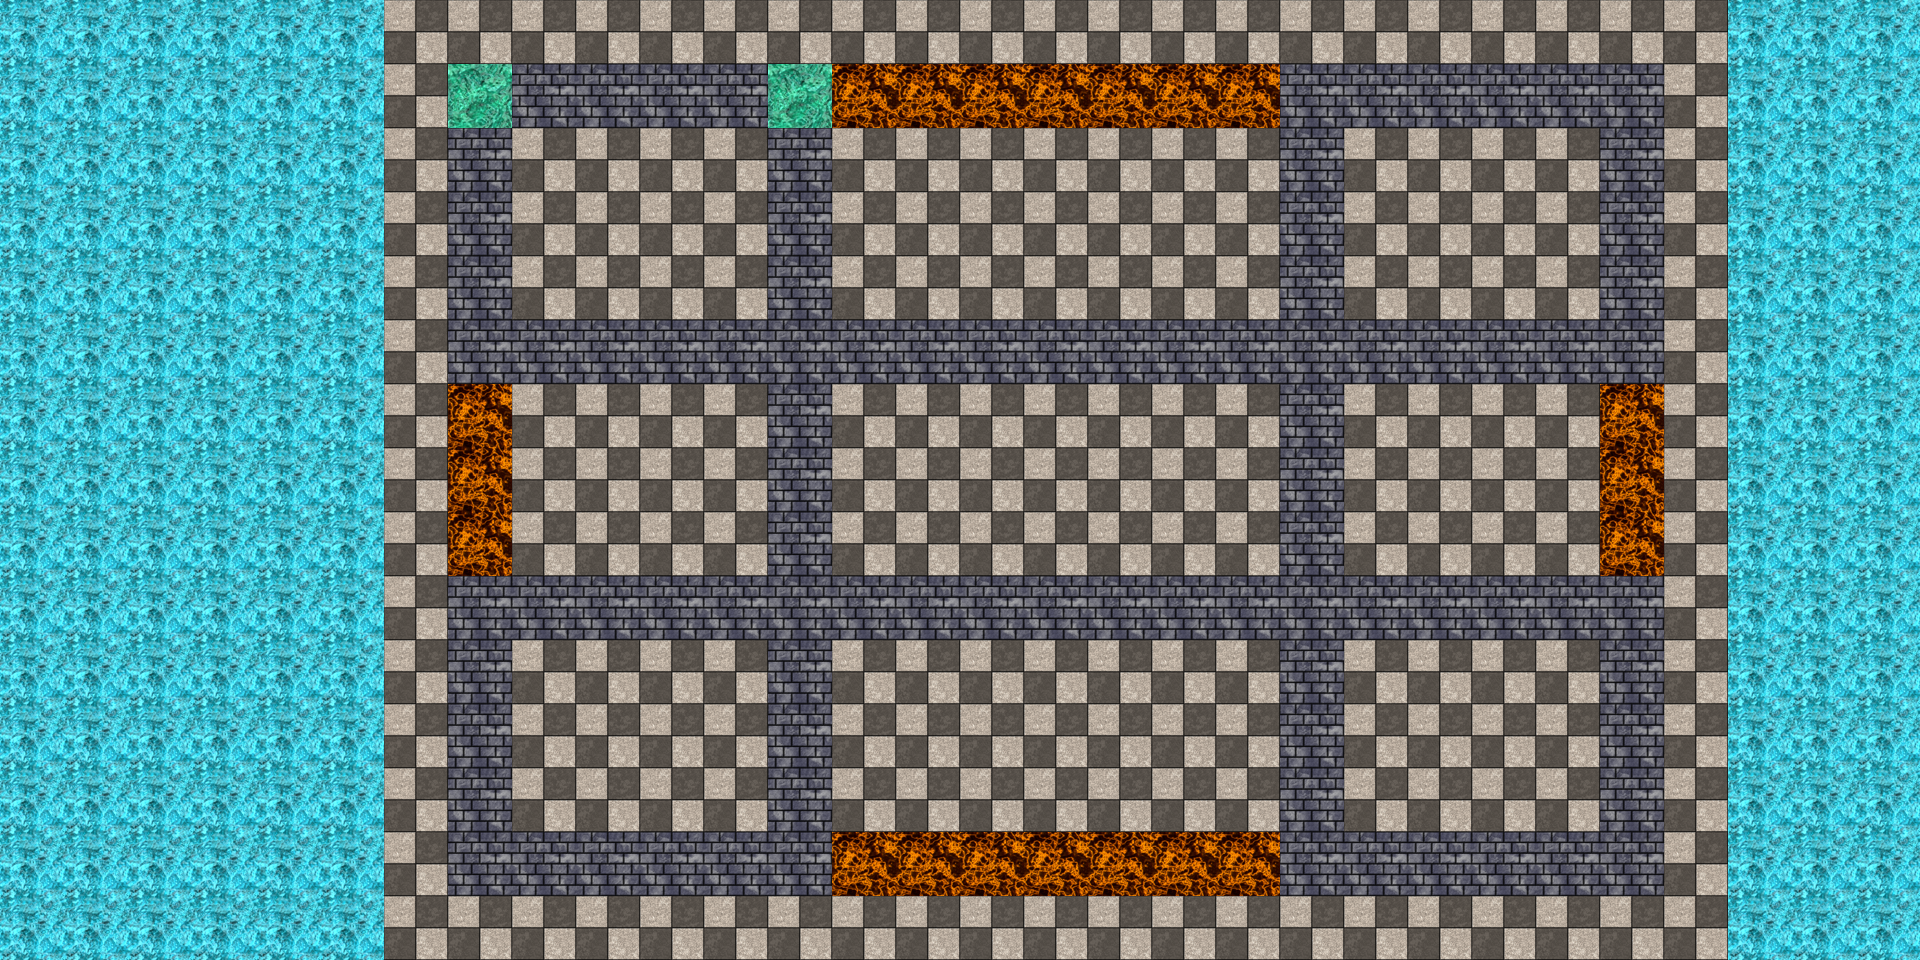
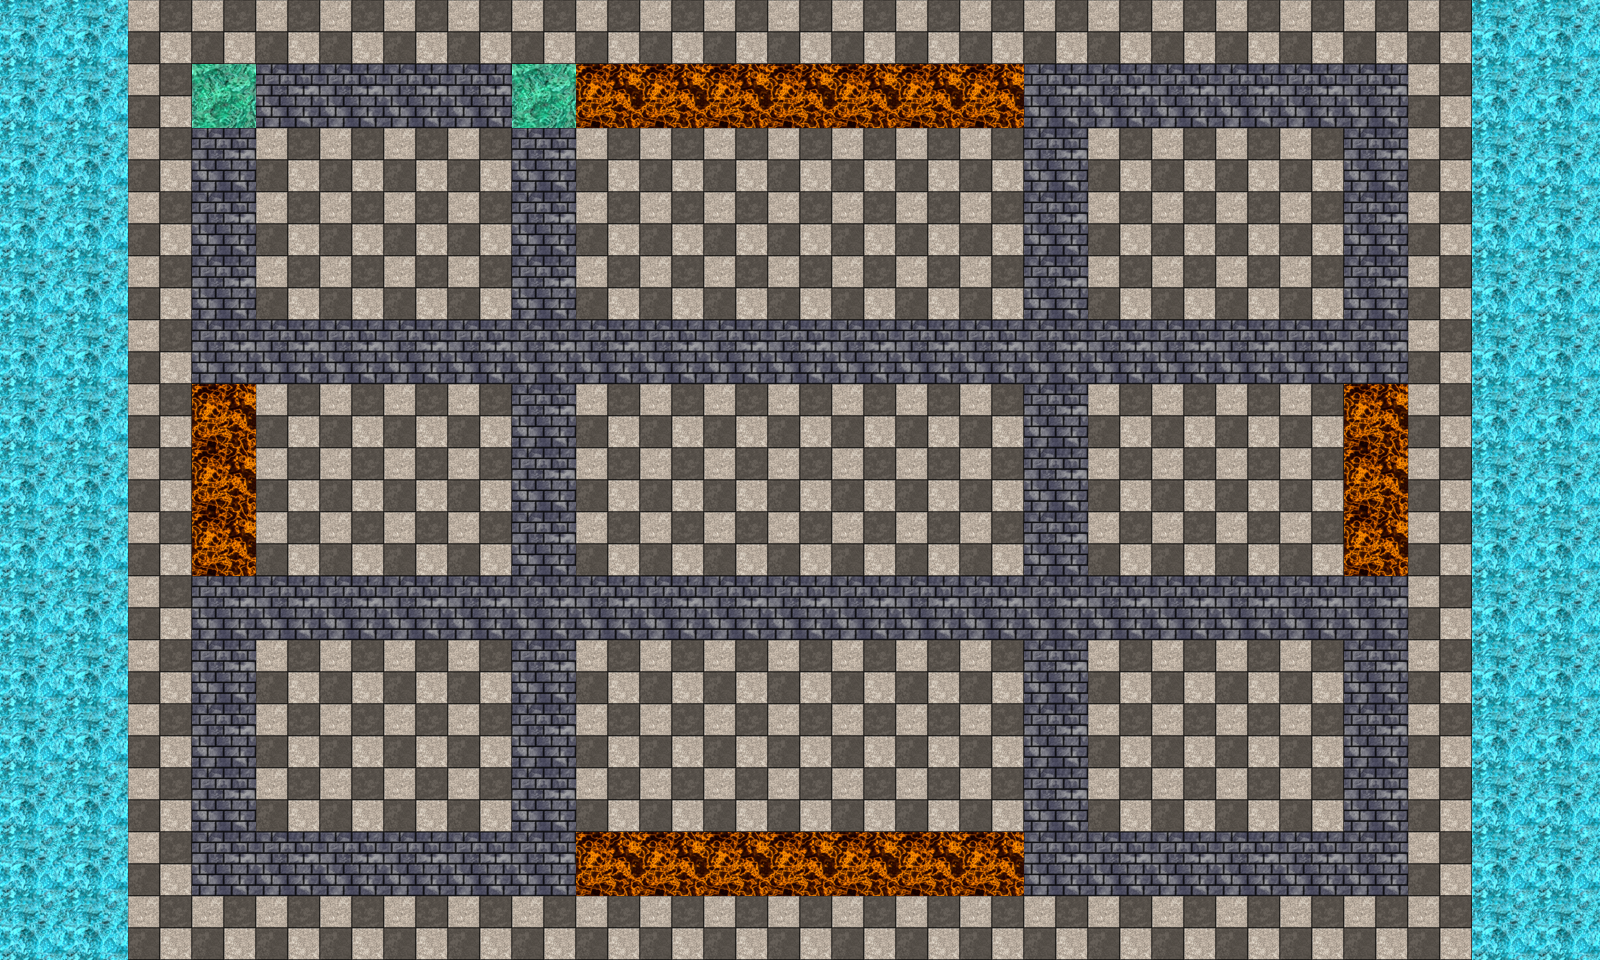
Create monster

diff --git a/TowerDefence/Monster/MonsterFilter.cs b/TowerDefence/Monster/MonsterFilter.cs
@@ -8,6 +8,64 @@ namespace TowerDefence
 {
     public class MonsterFilter
     {
+        List<Monster> liste;
+        List<Monster> filtred;
 
+
+        public MonsterFilter()
+        { 
+            this.liste = new List<Monster>();
+            this.filtred = liste;
+        }
+
+
+        public MonsterFilter Add(EMonster type)
+        {
+            switch (type)
+            {
+                case EMonster.FIRE:
+                    this.liste.Add(new Monster1());
+                    break;
+                case EMonster.ICE:
+                    this.liste.Add(new Monster2());
+                    break;
+                case EMonster.POISON:
+                    this.liste.Add(new Monster3());
+                    break;
+                default:
+                    throw new Exception("ERROR TYPE INCONNU");
+            }
+
+
+
+
+            return this;
+        }
+
+
+        public MonsterFilter all()
+        {
+            filtred = liste;
+            return this;
+        }
+
+
+        public MonsterFilter MoveMonsters()
+        {
+            filtred.ForEach(monstre => monstre.MoveMonster());
+            return this;
+        }
+
+        public MonsterFilter Draw()
+        {
+            filtred.ForEach(monstre => monstre.DrawMonster());
+            return this;
+        }
+
+
+        public List<Monster> Build()
+        {
+            return liste;
+        }
     }
 }

diff --git a/TowerDefence/MainGameTD.cs b/TowerDefence/MainGameTD.cs
@@ -3,6 +3,10 @@ using Microsoft.Xna.Framework.Content;
 using Microsoft.Xna.Framework.Graphics;
 using System;
 using System.Collections.Generic;
+using System.Diagnostics;
+using System.IO;
+using System.Text.Json;
+using System.Text.Json.Serialization;
 
 namespace TowerDefence
 {
@@ -13,11 +17,18 @@ namespace TowerDefence
         private MonsterFilter monsterFilter;
         private TowerFilter towerFilter;
 
+
+
         public MainGameTD()
         {
             this.map = new Map();
             this.gui = new GUI();
+            this.monsterFilter = new MonsterFilter()
+                .Add(EMonster.FIRE)
+                .Add(EMonster.ICE);
         }
+
+
 
         public void Initialize()
         {
@@ -31,12 +42,19 @@ namespace TowerDefence
 
         public void Update(GameTime gameTime)
         {
+            monsterFilter
+                .all()
+                    .MoveMonsters();
         }
 
         public void Draw()
         {
             map.Draw();
             gui.Draw();
+
+            monsterFilter
+                .all()
+                    .Draw();
         }
     }
 }

diff --git a/TowerDefence/Monster/Monster/Monster.cs b/TowerDefence/Monster/Monster/Monster.cs
@@ -1,0 +1,45 @@
+using Microsoft.Xna.Framework;
+using System;
+using System.Collections.Generic;
+using System.Diagnostics;
+using System.Linq;
+using System.Text;
+using System.Threading.Tasks;
+
+namespace TowerDefence
+{
+    public abstract class Monster : IMonster
+    {
+        public EMonster type;
+
+        public Vector2 pos = new Vector2(
+            MonsterDB.initial_pos.X, 
+            MonsterDB.initial_pos.Y
+        );
+
+        public Monster() 
+        {
+            
+        }
+
+        public void DrawMonster()
+        {
+            MainGame.spriteBatch.Draw(
+                MonsterDB.monster_texture[(int)type],
+                this.pos,
+                Color.White
+           );
+        }
+
+        public void MoveMonster()
+        {
+            pos += MonsterDB.vitesse[(int)type];
+        }
+
+        public void TimerMonster()
+        {
+
+        }
+        
+    }
+}

diff --git a/TowerDefence/DataBase/MonsterDB.cs b/TowerDefence/DataBase/MonsterDB.cs
@@ -1,4 +1,6 @@
-using System;
+using Microsoft.Xna.Framework;
+using Microsoft.Xna.Framework.Graphics;
+using System;
 using System.Collections.Generic;
 using System.Linq;
 using System.Text;
@@ -6,7 +8,25 @@ using System.Threading.Tasks;
 
 namespace TowerDefence
 {
+
     public static class MonsterDB
     {
+
+
+        public static Vector2 initial_pos = new Vector2(500,0);
+
+        public static List<Texture2D> monster_texture = new List<Texture2D>()
+        {
+            MainGame.content.Load<Texture2D>("Monster/Monster1"),
+            MainGame.content.Load<Texture2D>("Monster/Monster2"),
+            MainGame.content.Load<Texture2D>("Monster/Monster3"),
+        };
+
+        public static List<Vector2> vitesse = new List<Vector2>()
+        {
+            new Vector2(0,1),
+            new Vector2(0,2),
+            new Vector2(0,3)
+        };
     }
 }

diff --git a/TowerDefence/GUI/Infos/Infos.cs b/TowerDefence/GUI/Infos/Infos.cs
@@ -1,11 +1,14 @@
 using Microsoft.Xna.Framework;
 using Microsoft.Xna.Framework.Graphics;
+using SharpDX.MediaFoundation;
 
 namespace TowerDefence
 {
     public class Infos
     {
+        public static Vector2 offsetBuilder = new Vector2(0, 50);
         private Texture2D infosTexture;
+        private Texture2D builderTexture;
         public Infos() 
         {
         
@@ -14,11 +17,15 @@ namespace TowerDefence
         public void LoadContent()
         {
             infosTexture = MainGame.content.Load<Texture2D>("GUI/Infos/Infos");
+            builderTexture = MainGame.content.Load<Texture2D>("GUI/Infos/Builder");
+
         }
 
         public void Draw()
         {
             MainGame.spriteBatch.Draw(infosTexture, new Vector2(0, 0), Color.White);
+            MainGame.spriteBatch.Draw(builderTexture, offsetBuilder, Color.White);
+
         }
     }
 }

diff --git a/TowerDefence/MainGame.cs b/TowerDefence/MainGame.cs
@@ -2,6 +2,9 @@
 using Microsoft.Xna.Framework.Content;
 using Microsoft.Xna.Framework.Graphics;
 using Microsoft.Xna.Framework.Input;
+using System;
+using System.Collections.Generic;
+using System.Diagnostics;
 
 namespace TowerDefence
 {
@@ -14,7 +17,7 @@ namespace TowerDefence
         public MainGameTD mainGameTD;
 
 
-
+        List<Monster> monsters;
         public MainGame()
         {
             graphics = new GraphicsDeviceManager(this);
@@ -48,7 +51,7 @@ namespace TowerDefence
                 Exit();
 
             // TODO: Add your update logic here
-
+            mainGameTD.Update(gameTime);
             base.Update(gameTime);
         }
 

diff --git a/TowerDefence/Monster/IMonster.cs b/TowerDefence/Monster/IMonster.cs
@@ -8,5 +8,25 @@ namespace TowerDefence
 {
     public interface IMonster
     {
+        // img
+        // position
+        // vitesse
+        // logique de deplacement
+
+        // add
+        // timer
+        // delete
+
+
+        // PV
+        // Mana 
+        // air
+        // sol
+        // invisible 
+
+        public void DrawMonster();
+        public void MoveMonster();
+        public void TimerMonster();
+
     }
 }

diff --git a/TowerDefence/Map/Map.cs b/TowerDefence/Map/Map.cs
@@ -7,6 +7,7 @@ namespace TowerDefence
 {
     public class Map
     {
+        public static Vector2 offsetMap = new Vector2(320, 50);
         public static int[,] grid;
 
 
@@ -26,7 +27,7 @@ namespace TowerDefence
 
         public void Draw()
         {
-            MainGame.spriteBatch.Draw(mapTexture, new Vector2(0,50), Color.White);
+            MainGame.spriteBatch.Draw(mapTexture, offsetMap, Color.White);
         }
     }
 }

diff --git a/TowerDefence/Monster/Monster/Monster1.cs b/TowerDefence/Monster/Monster/Monster1.cs
@@ -1,0 +1,20 @@
+using Microsoft.Xna.Framework;
+using System;
+using System.Collections.Generic;
+using System.Linq;
+using System.Text;
+using System.Threading.Tasks;
+
+namespace TowerDefence
+{
+    public class Monster1 : Monster
+    {
+        
+
+        public Monster1() : base() 
+        {
+            type = EMonster.FIRE;
+        }
+
+    }
+}

diff --git a/TowerDefence/Monster/Monster/Monster2.cs b/TowerDefence/Monster/Monster/Monster2.cs
@@ -1,0 +1,21 @@
+using Microsoft.Xna.Framework;
+using System;
+using System.Collections.Generic;
+using System.Linq;
+using System.Text;
+using System.Threading.Tasks;
+
+namespace TowerDefence
+{
+    public class Monster2 : Monster
+    {
+        public Monster2() : base() 
+        {
+            type = EMonster.ICE;
+        }
+
+
+
+
+    }
+}

diff --git a/TowerDefence/Monster/EMonster.cs b/TowerDefence/Monster/EMonster.cs
@@ -1,0 +1,24 @@
+using Microsoft.Xna.Framework.Graphics;
+using System;
+using System.Collections.Generic;
+using System.Linq;
+using System.Text;
+using System.Threading.Tasks;
+
+namespace TowerDefence
+{
+    public enum EMonster
+    {
+        FIRE = 0,
+        ICE = 1,
+        POISON = 2,
+        // ....
+
+
+    }
+}
+
+
+
+
+

diff --git a/TowerDefence/Monster/Monster/Monster3.cs b/TowerDefence/Monster/Monster/Monster3.cs
@@ -1,0 +1,16 @@
+using System;
+using System.Collections.Generic;
+using System.Linq;
+using System.Text;
+using System.Threading.Tasks;
+
+namespace TowerDefence
+{
+    public class Monster3 : Monster
+    {
+        public Monster3() 
+        {
+        
+        }
+    }
+}
